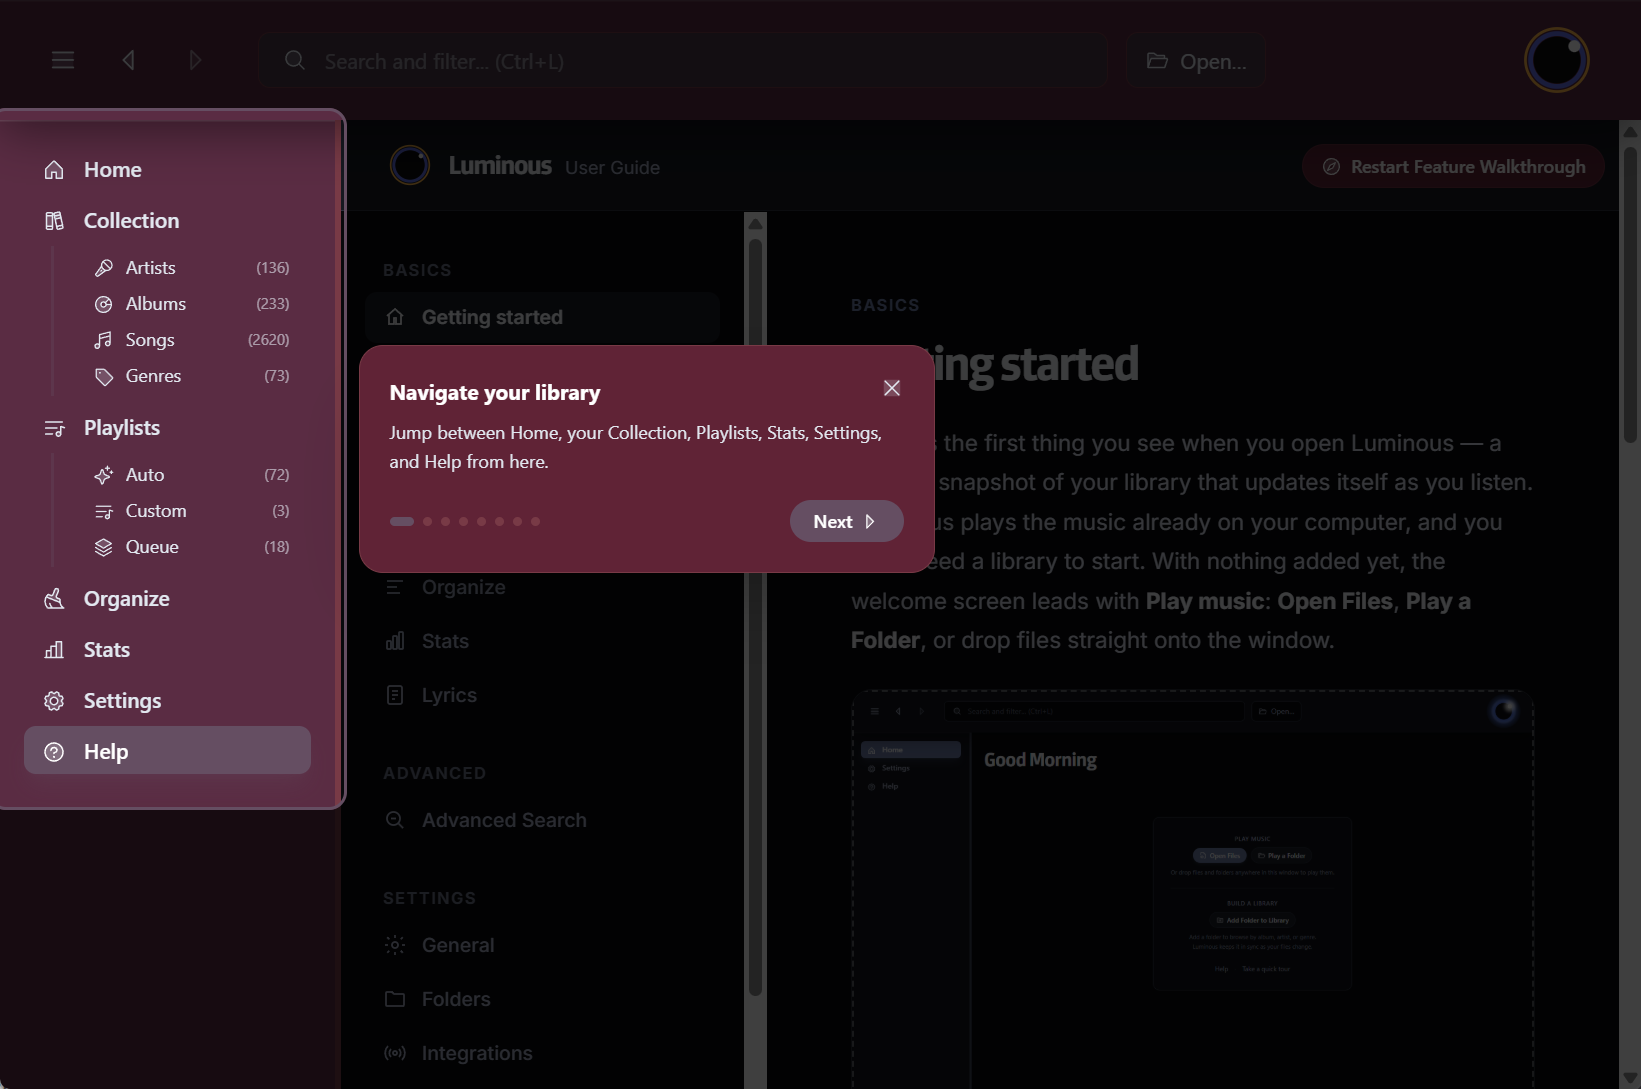
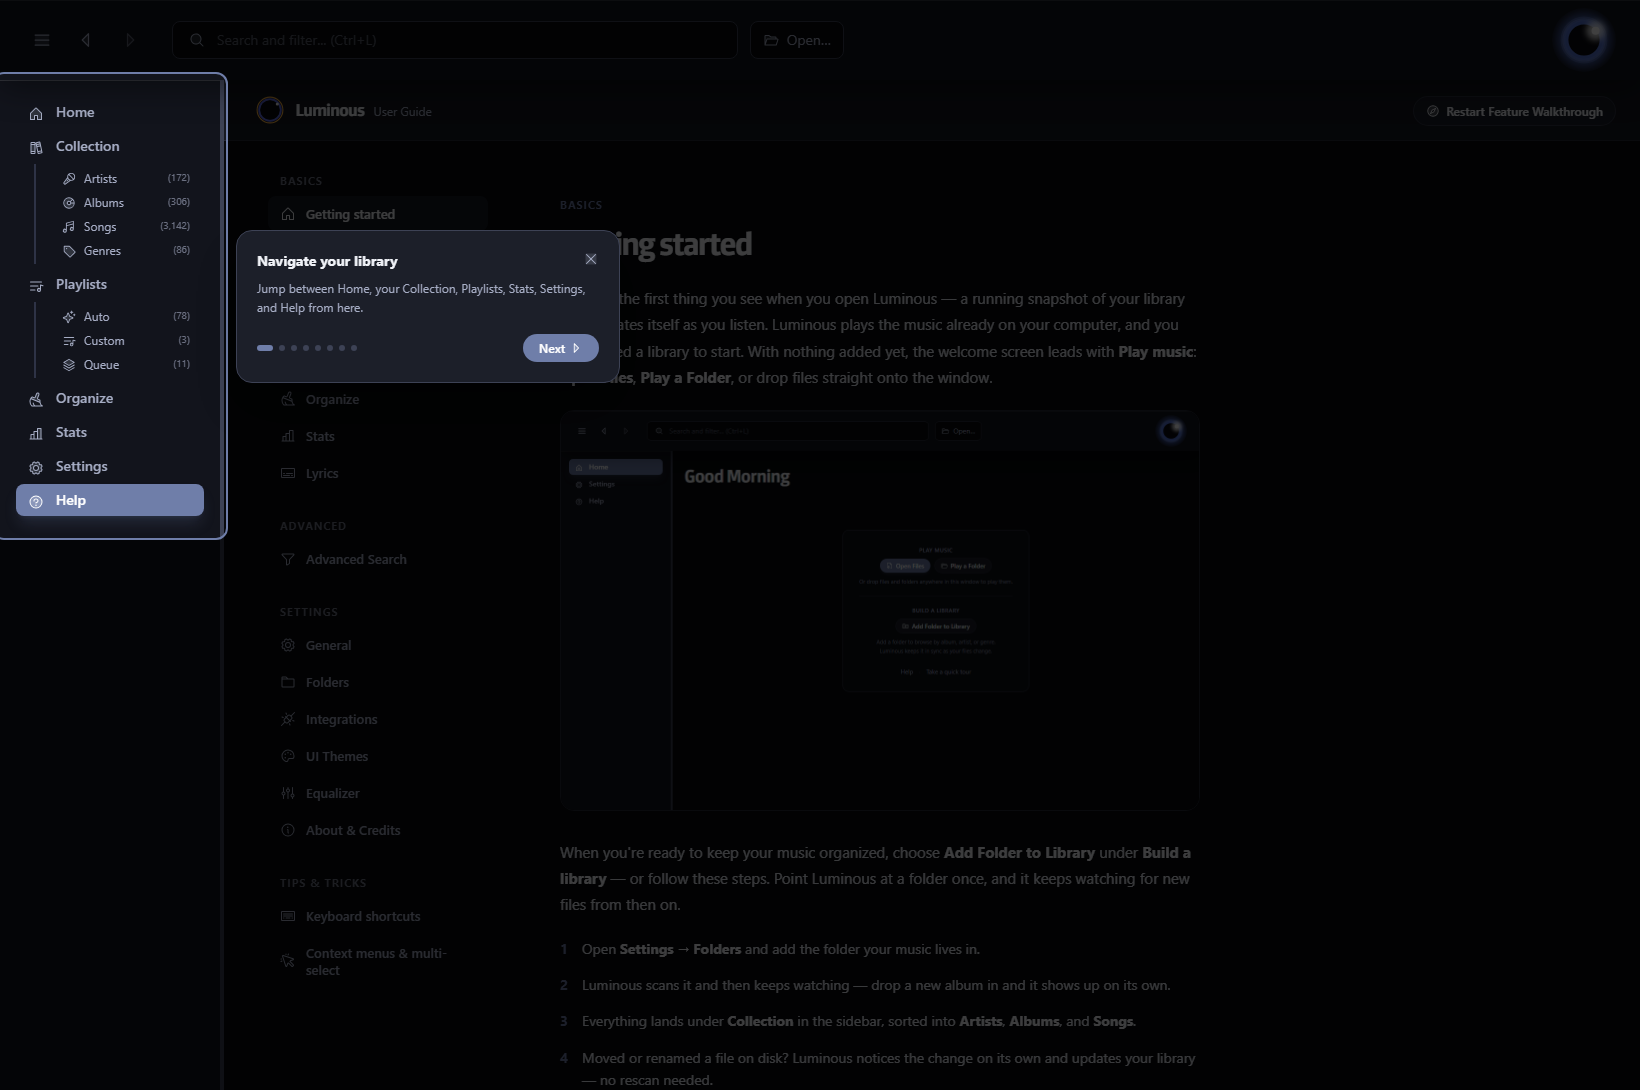
feat: automate user guide screenshots for playbar, searchbar, and walkthrough (#1369) (#1374)

diff --git a/scripts/take-screenshots.ts b/scripts/take-screenshots.ts
@@ -106,7 +106,7 @@ async function main() {
 
   interface CaptureOptions {
     tab: string;
-    subTab: string;
+    subTab?: string;
     theme: string;
     filename: string;
     featured: FeaturedSelection;
@@ -120,13 +120,16 @@ async function main() {
     viewportWidth?: number;
     viewportHeight?: number;
     emptyLibrary?: boolean;
+    selector?: string;
+    outDir?: string;
+    walkthroughCompleted?: boolean;
     /** e.g. "[3/20]" — shown when running the full batch (no --name filter); omitted otherwise. */
     progressLabel?: string;
   }
 
   async function capture({
     tab,
-    subTab,
+    subTab = "",
     theme,
     filename,
     featured,
@@ -140,6 +143,9 @@ async function main() {
     viewportWidth = 1280,
     viewportHeight = 800,
     emptyLibrary = false,
+    selector,
+    outDir,
+    walkthroughCompleted = true,
     progressLabel,
   }: CaptureOptions) {
     console.log(`${progressLabel ? progressLabel + " " : ""}Capturing ${filename}...`);
@@ -217,7 +223,7 @@ async function main() {
         language: "${language}",
         // Otherwise +layout.svelte auto-starts the first-launch Walkthrough
         // tour, whose popover would cover every capture (see #897).
-        walkthrough_completed: "true",
+        walkthrough_completed: "${walkthroughCompleted ? 'true' : 'false'}",
         // Otherwise the first-run Welcome screen covers every capture behind
         // its full-screen overlay before the Walkthrough tour even starts.
         welcome_seen: "true"
@@ -294,7 +300,9 @@ async function main() {
     // Settle transitions
     await page.waitForTimeout(400);
 
-    const dir = path.join(__dirname, "../docs/user-guide/screenshots");
+    const dir = outDir
+      ? path.resolve(__dirname, "..", outDir)
+      : path.join(__dirname, "../docs/user-guide/screenshots");
     if (!fs.existsSync(dir)) {
       fs.mkdirSync(dir, { recursive: true });
     }
@@ -306,7 +314,12 @@ async function main() {
         if (fs.existsSync(screenshotPath)) {
           fs.unlinkSync(screenshotPath);
         }
-        await page.screenshot({ path: screenshotPath });
+        if (selector) {
+          const locator = page.locator(selector).first();
+          await locator.screenshot({ path: screenshotPath });
+        } else {
+          await page.screenshot({ path: screenshotPath });
+        }
         break;
       } catch (err) {
         attempts++;
@@ -524,6 +537,13 @@ async function main() {
       await chip.click({ button: "right" });
       await page.waitForTimeout(400);
     },
+    "click-restart-walkthrough": async (page, _featured, language) => {
+      const restartBtn = page.getByRole("button", { name: t(language, "walkthrough.restartTour"), exact: true });
+      await restartBtn.waitFor({ state: "visible", timeout: 10000 });
+      await restartBtn.click();
+      await page.waitForSelector('[role="dialog"][aria-labelledby="walkthrough-step-title"]', { timeout: 10000 });
+      await page.waitForTimeout(600);
+    },
   };
 
   const withLanguageSuffix = (filename: string, language: string) => {
@@ -572,6 +592,9 @@ async function main() {
             viewportWidth: s.viewportWidth,
             viewportHeight: s.viewportHeight,
             emptyLibrary: s.emptyLibrary,
+            selector: s.selector,
+            outDir: s.outDir,
+            walkthroughCompleted: s.walkthroughCompleted ?? true,
             progressLabel: nameFilter ? undefined : `[${captureIndex}/${totalCaptures}]`,
           });
         }

diff --git a/docs/user-guide/luminous-user-guide-FR.html b/docs/user-guide/luminous-user-guide-FR.html
@@ -71,7 +71,7 @@
       </figure>
       <p>Nouveau sur Luminous? Une visite guidée de l'interface vous sera proposée. La visite se termine sur Accueil, et vous pouvez la revoir à tout moment depuis la section Aide.<br></p>
       <figure class="shot mw-640">
-        <img src="screenshots/walkthrough-FR.png" alt="État initial d'Accueil" width="1641" height="1089" loading="lazy">
+        <img src="screenshots/walkthrough-FR.png" alt="État initial d'Accueil" width="1640" height="1090" loading="lazy">
       </figure>
     </section>
 
@@ -118,7 +118,7 @@
       <h1>Recherche et navigation</h1>
       <p>La barre de recherche en haut de la fenêtre parcourt à la fois les chansons, les albums et les artistes — vous n'avez jamais à réfléchir à l'endroit où quelque chose est classé avant de partir à sa recherche.</p>
       <figure class="shot mw-640 mb-20">
-        <img src="assets/searchbar-FR.png" alt="Barre de recherche" width="1636" height="115" loading="lazy">
+        <img src="assets/searchbar-FR.png" alt="Barre de recherche" width="1200" height="80" loading="lazy">
       </figure>
       <div class="list mb-24">
         <div class="row"><div class="mk">•</div><div>Le logo Luminous réagit à la musique en cours de lecture — cliquez dessus pour activer ou désactiver cet effet.</div></div>
@@ -139,7 +139,7 @@
       <h1>Lecture en cours et le mini lecteur</h1>
       <p>Une barre de lecture apparaît au bas de la fenêtre lorsqu'une chanson joue, avec la forme d'onde, les commandes de lecture, le volume et un raccourci vers la vue Lecture en cours complète.</p>
       <figure class="shot mw-640 mb-20">
-        <img src="assets/playbar-FR.png" alt="Barre de lecture" width="1629" height="145" loading="lazy">
+        <img src="assets/playbar-FR.png" alt="Barre de lecture" width="1200" height="80" loading="lazy">
       </figure>
       <p>Cliquez sur la pochette de l'album dans la barre de lecture pour activer le mode Immersif (<kbd>Ctrl</kbd><kbd>2</kbd> fonctionne aussi).</p><div class="row"><div class="mk">•</div><div>Cliquez sur le cœur pour ajouter la chanson à vos favoris, ou donnez-lui une note de 1 à 5 étoiles, selon vos paramètres.</div></div><div class="row"><div class="mk">•</div><div>Les touches multimédias lecture/pause, piste suivante et volume fonctionnent même lorsque Luminous n'est pas la fenêtre active, et la lecture apparaît dans les commandes multimédias de votre système — pour la voir et la piloter sans revenir à l'application.</div></div><div class="row"><div class="mk">•</div><div>Cliquez sur <b>Aléatoire</b> pour parcourir cinq modes :
           <ul class="sublist">

diff --git a/docs/user-guide/luminous-user-guide-EN.html b/docs/user-guide/luminous-user-guide-EN.html
@@ -65,7 +65,7 @@
       </figure>
       <p>New to Luminous? You'll be introduced with a walkthrough of the interface. The tour ends on Home, and you can replay it anytime you want from the Help section.<br></p>
       <figure class="shot mw-640">
-        <img src="screenshots/walkthrough-EN.png" alt="Empty Home state" width="1641" height="1089" loading="lazy">
+        <img src="screenshots/walkthrough-EN.png" alt="Empty Home state" width="1640" height="1090" loading="lazy">
       </figure>
     </section>
 
@@ -112,7 +112,7 @@
       <h1>Search &amp; browsing</h1>
       <p>The search bar at the top of the window looks across songs, albums, and artists at once — you never have to think about where something is filed before you go looking for it.</p>
       <figure class="shot mw-640 mb-20">
-        <img src="assets/searchbar-EN.png" alt="Search bar" width="1638" height="115" loading="lazy">
+        <img src="assets/searchbar-EN.png" alt="Search bar" width="1200" height="80" loading="lazy">
       </figure>
       <div class="list mb-24">
         <div class="row"><div class="mk">•</div><div>The Luminous logo reacts to music playing — click it to toggle this on or off.</div></div>
@@ -133,7 +133,7 @@
       <h1>Now Playing &amp; the mini player</h1>
       <p>A player bar sits at the bottom of the window when you're playing a song, with the waveform, transport controls, volume, and a shortcut into the full Now Playing view.</p>
       <figure class="shot mw-640 mb-20">
-        <img src="assets/playbar-EN.png" alt="Player bar" width="1633" height="153" loading="lazy">
+        <img src="assets/playbar-EN.png" alt="Player bar" width="1200" height="80" loading="lazy">
       </figure>
       <p>Click the album cover art in the player bar to toggle Immersive Mode (<kbd>Ctrl</kbd><kbd>2</kbd> also works).</p><div class="row"><div class="mk">•</div><div>Click the heart to favourite a song, or give it a 1–5 star rating, depending on your settings.</div></div><div class="row"><div class="mk">•</div><div>Play/pause, skip, and volume media keys work even when Luminous isn't the focused window, and playback shows up in your system's own media controls — so you can see and steer it without switching back.</div></div><div class="row"><div class="mk">•</div><div>Click <b>Shuffle</b> to cycle through five modes:
           <ul class="sublist">

diff --git a/scripts/mock-library.ts b/scripts/mock-library.ts
@@ -94,9 +94,12 @@ interface MockConfigDefaults {
 export interface ScreenshotConfig extends MockConfigDefaults {
   name: string;
   tab: string;
-  subTab: string;
+  subTab?: string;
   filename: string;
   action?: string;
+  selector?: string;
+  outDir?: string;
+  walkthroughCompleted?: boolean;
   isImmersive?: boolean;
   viewportWidth?: number;
   viewportHeight?: number;
